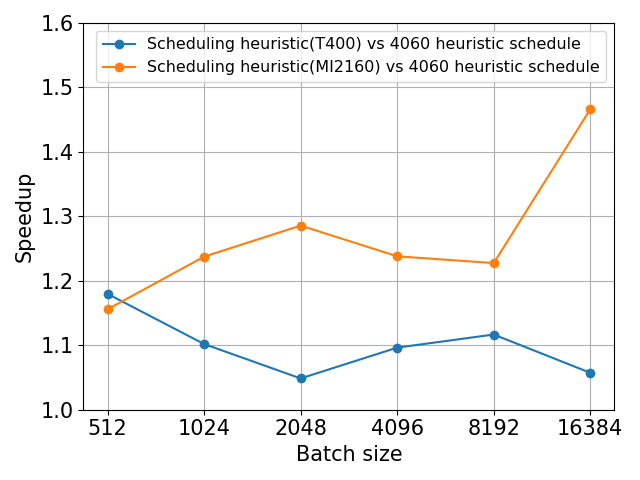
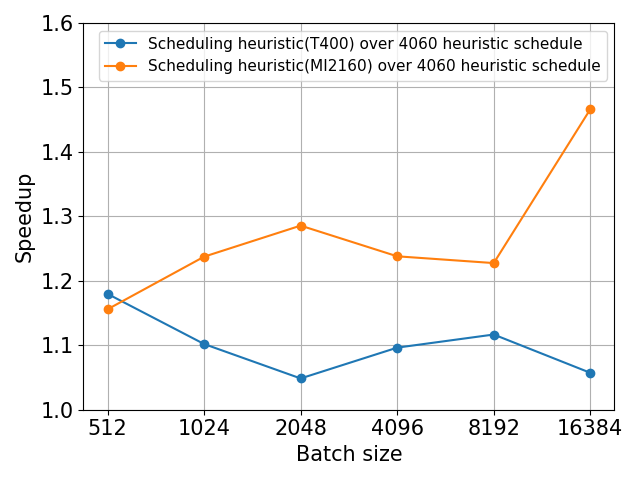
Revert to previous file names

Changed region(s): [[0.1562, 0.0625, 0.9375, 0.1875]]

diff --git a/results/python/analyze_gpu_speedups_results.py b/results/python/analyze_gpu_speedups_results.py
@@ -230,7 +230,7 @@ def plot_double_y_axis_line_graph(df_4060, full_exp_df, gpu_name):
     ax1.legend(fontsize=LEGEND_FONT_SIZE, loc='upper right')
     ax2.legend(fontsize=LEGEND_FONT_SIZE, loc='lower right')
     plt.tight_layout()
-    plt.savefig(f'speedup_over_norm_time_line_graph_{gpu_name}.png')
+    plt.savefig(f'speedup_vs_norm_time_line_graph_{gpu_name}.png')
 
 
 
@@ -311,12 +311,12 @@ line_graph_plotter.plot_geomean_speedups_over_batch_size(results_t400_df, 'TBKer
 line_graph_plotter.plot_geomean_speedups_over_batch_size(results_t400_df, 'TB(AT)', ['RAPIDS(Total)'], ['Speedup of SilvanForge over RAPIDS(total)'])
 line_graph_plotter.save_plot()
 
-line_graph_plotter = LineGraphPlotter('T400', '4060_over_T400_over_MI2160', lower_lim=1, upper_lim=1.6)
+line_graph_plotter = LineGraphPlotter('T400', '4060_vs_T400_vs_MI2160', lower_lim=1, upper_lim=1.6)
 line_graph_plotter.plot_geomean_speedups_over_batch_size(results_t400_df, 'TBKernel(AT)', ['TBKernel(4060)'], ['Scheduling heuristic(T400) over 4060 heuristic schedule'])
 line_graph_plotter.plot_geomean_speedups_over_batch_size(results_amdmi2160_df, 'TBKernel(MI2160)', ['TBKernel(4060)'], ['Scheduling heuristic(MI2160) over 4060 heuristic schedule'])
 line_graph_plotter.save_plot(leg_font_size=11)
 
-line_graph_plotter = LineGraphPlotter('4060', 'full_exp_over_at', lower_lim=1, upper_lim=110)
+line_graph_plotter = LineGraphPlotter('4060', 'full_exp_vs_at', lower_lim=1, upper_lim=110)
 line_graph_plotter.plot_geomean_speedups_over_batch_size(fullexp_over_at_df, 'AT', ['FullExplore'], ['Scheduling heuristic over Full Exploration'])
 line_graph_plotter.save_plot()
 
